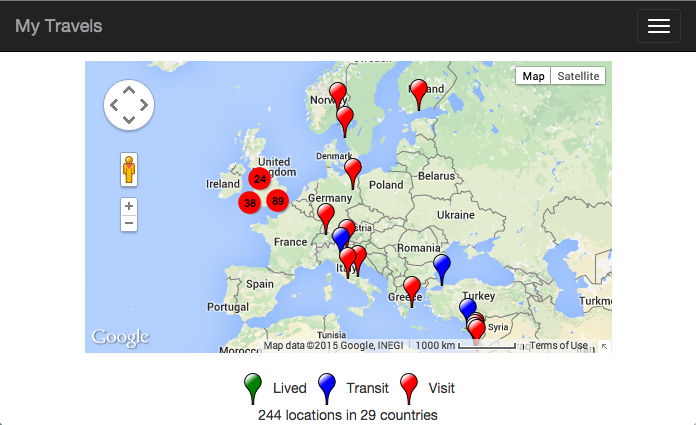
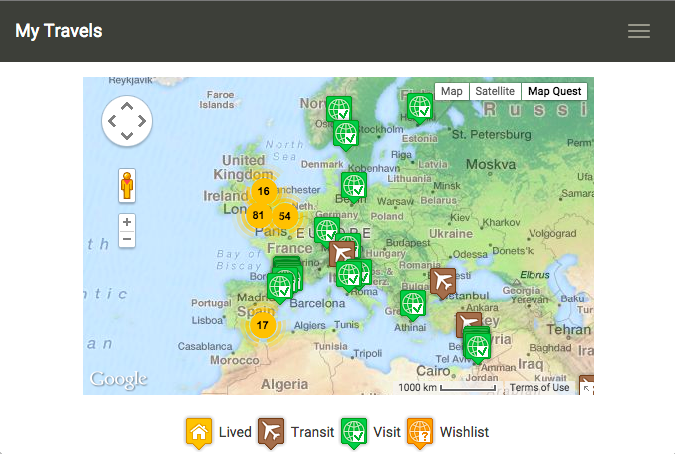
Mention new features and update screenshot for 1.5

diff --git a/index.md b/index.md
@@ -21,16 +21,17 @@ Follow the links to the left to learn how to install, configure and add points.
 
   * Responsive design that works on mobile and PC
   * A menu of pre-defined views so you can draw attention to a certain area of the map
-  * Support multiple datasets to let you track places you've been and places you'd like to go (1.1.0)
+  * Support multiple datasets to let you track places you've been and places you'd like to go
   * Points can be catagorized by type of visit like places you've lived, visited or transited through.  Each with their own icon.
   * Points can have urls, text, images and dates associated with them
   * Point clustering that combines many points into one when zoomed out with extensive configuration options
   * Several sets of colored icons for point types and clusters.  Ability to add your own.
+  * Support creating links to Flickr galleries, wider support to follow with a plugin interface (1.5.0)
   * A web based tool to help you visually construct the YAML snippets needed using search with the option to save them server side
-  * Geocoding page usable on a mobile device and supports using current location (1.3.0)
+  * Geocoding page usable on a mobile device and supports using current location
   * Optional authentication around the geocoder
-  * Support bootswatch themes (1.4.0)
-  * Support for 3rd party map tile sets like Map Quest and Open Streetmap (1.1.0)
+  * Support bootswatch themes
+  * Support for 3rd party map tile sets like Map Quest and Open Streetmap
   * Full control over the Google Map like enabling or disabling the street view options
   * Export to KML for viewing in tools like Google Earth
   * Google Analytics support
